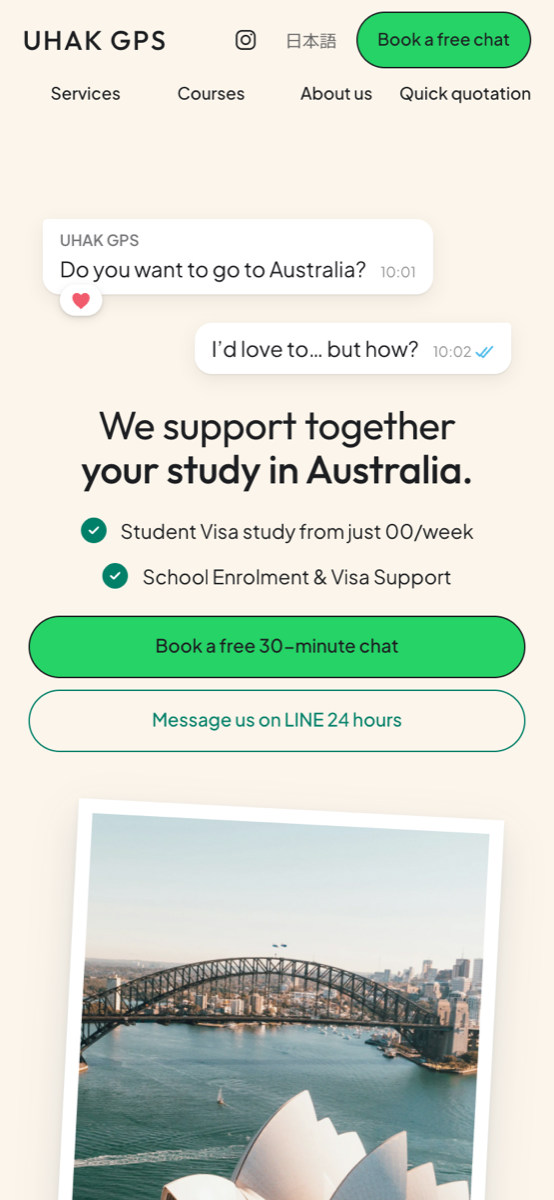
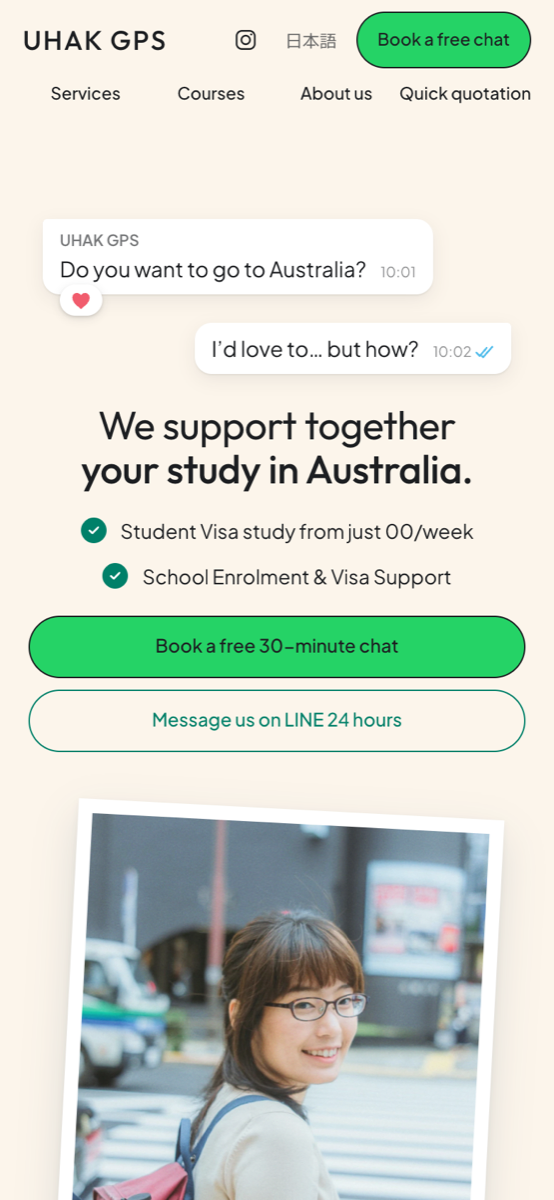
Refresh README landing screenshots and check off finished next steps.

Changed region(s): [[0.1227, 0.6783, 0.8899, 1.0]]

diff --git a/README.md b/README.md
@@ -183,10 +183,12 @@ Dev server tip (from `AGENTS.md`): `astro dev --background`, then `astro dev sta
 
 Tracked in GitHub Issues — remaining highlights:
 
-- Wire `#line` CTAs to the LINE official account
-- Placeholder numbers (`00/week`, `000 students`)
-- StickyBar restore or remove
-- Nav IA cleanup
-- Open Graph / social preview
-- Analytics, search, Sveltia CMS + blog
-- Unify `/zine/` copy with the landing (checklist under [`/zine/`](#zine--editorial-redesign-work-in-progress))
+- [x] Wire `#book` CTAs → `/book/` and `/ja/book/` with Netlify Forms
+- [x] Hero polaroid matches the zine (study-abroad portrait instead of the Opera House)
+- [ ] Wire `#line` CTAs to the LINE official account
+- [ ] Placeholder numbers (`00/week`, `000 students`)
+- [ ] StickyBar restore or remove
+- [ ] Nav IA cleanup
+- [ ] Open Graph / social preview
+- [ ] Analytics, search, Sveltia CMS + blog
+- [ ] Unify `/zine/` copy with the landing — mostly done; team and Japanese left (checklist under [`/zine/`](#zine--editorial-redesign-work-in-progress))
